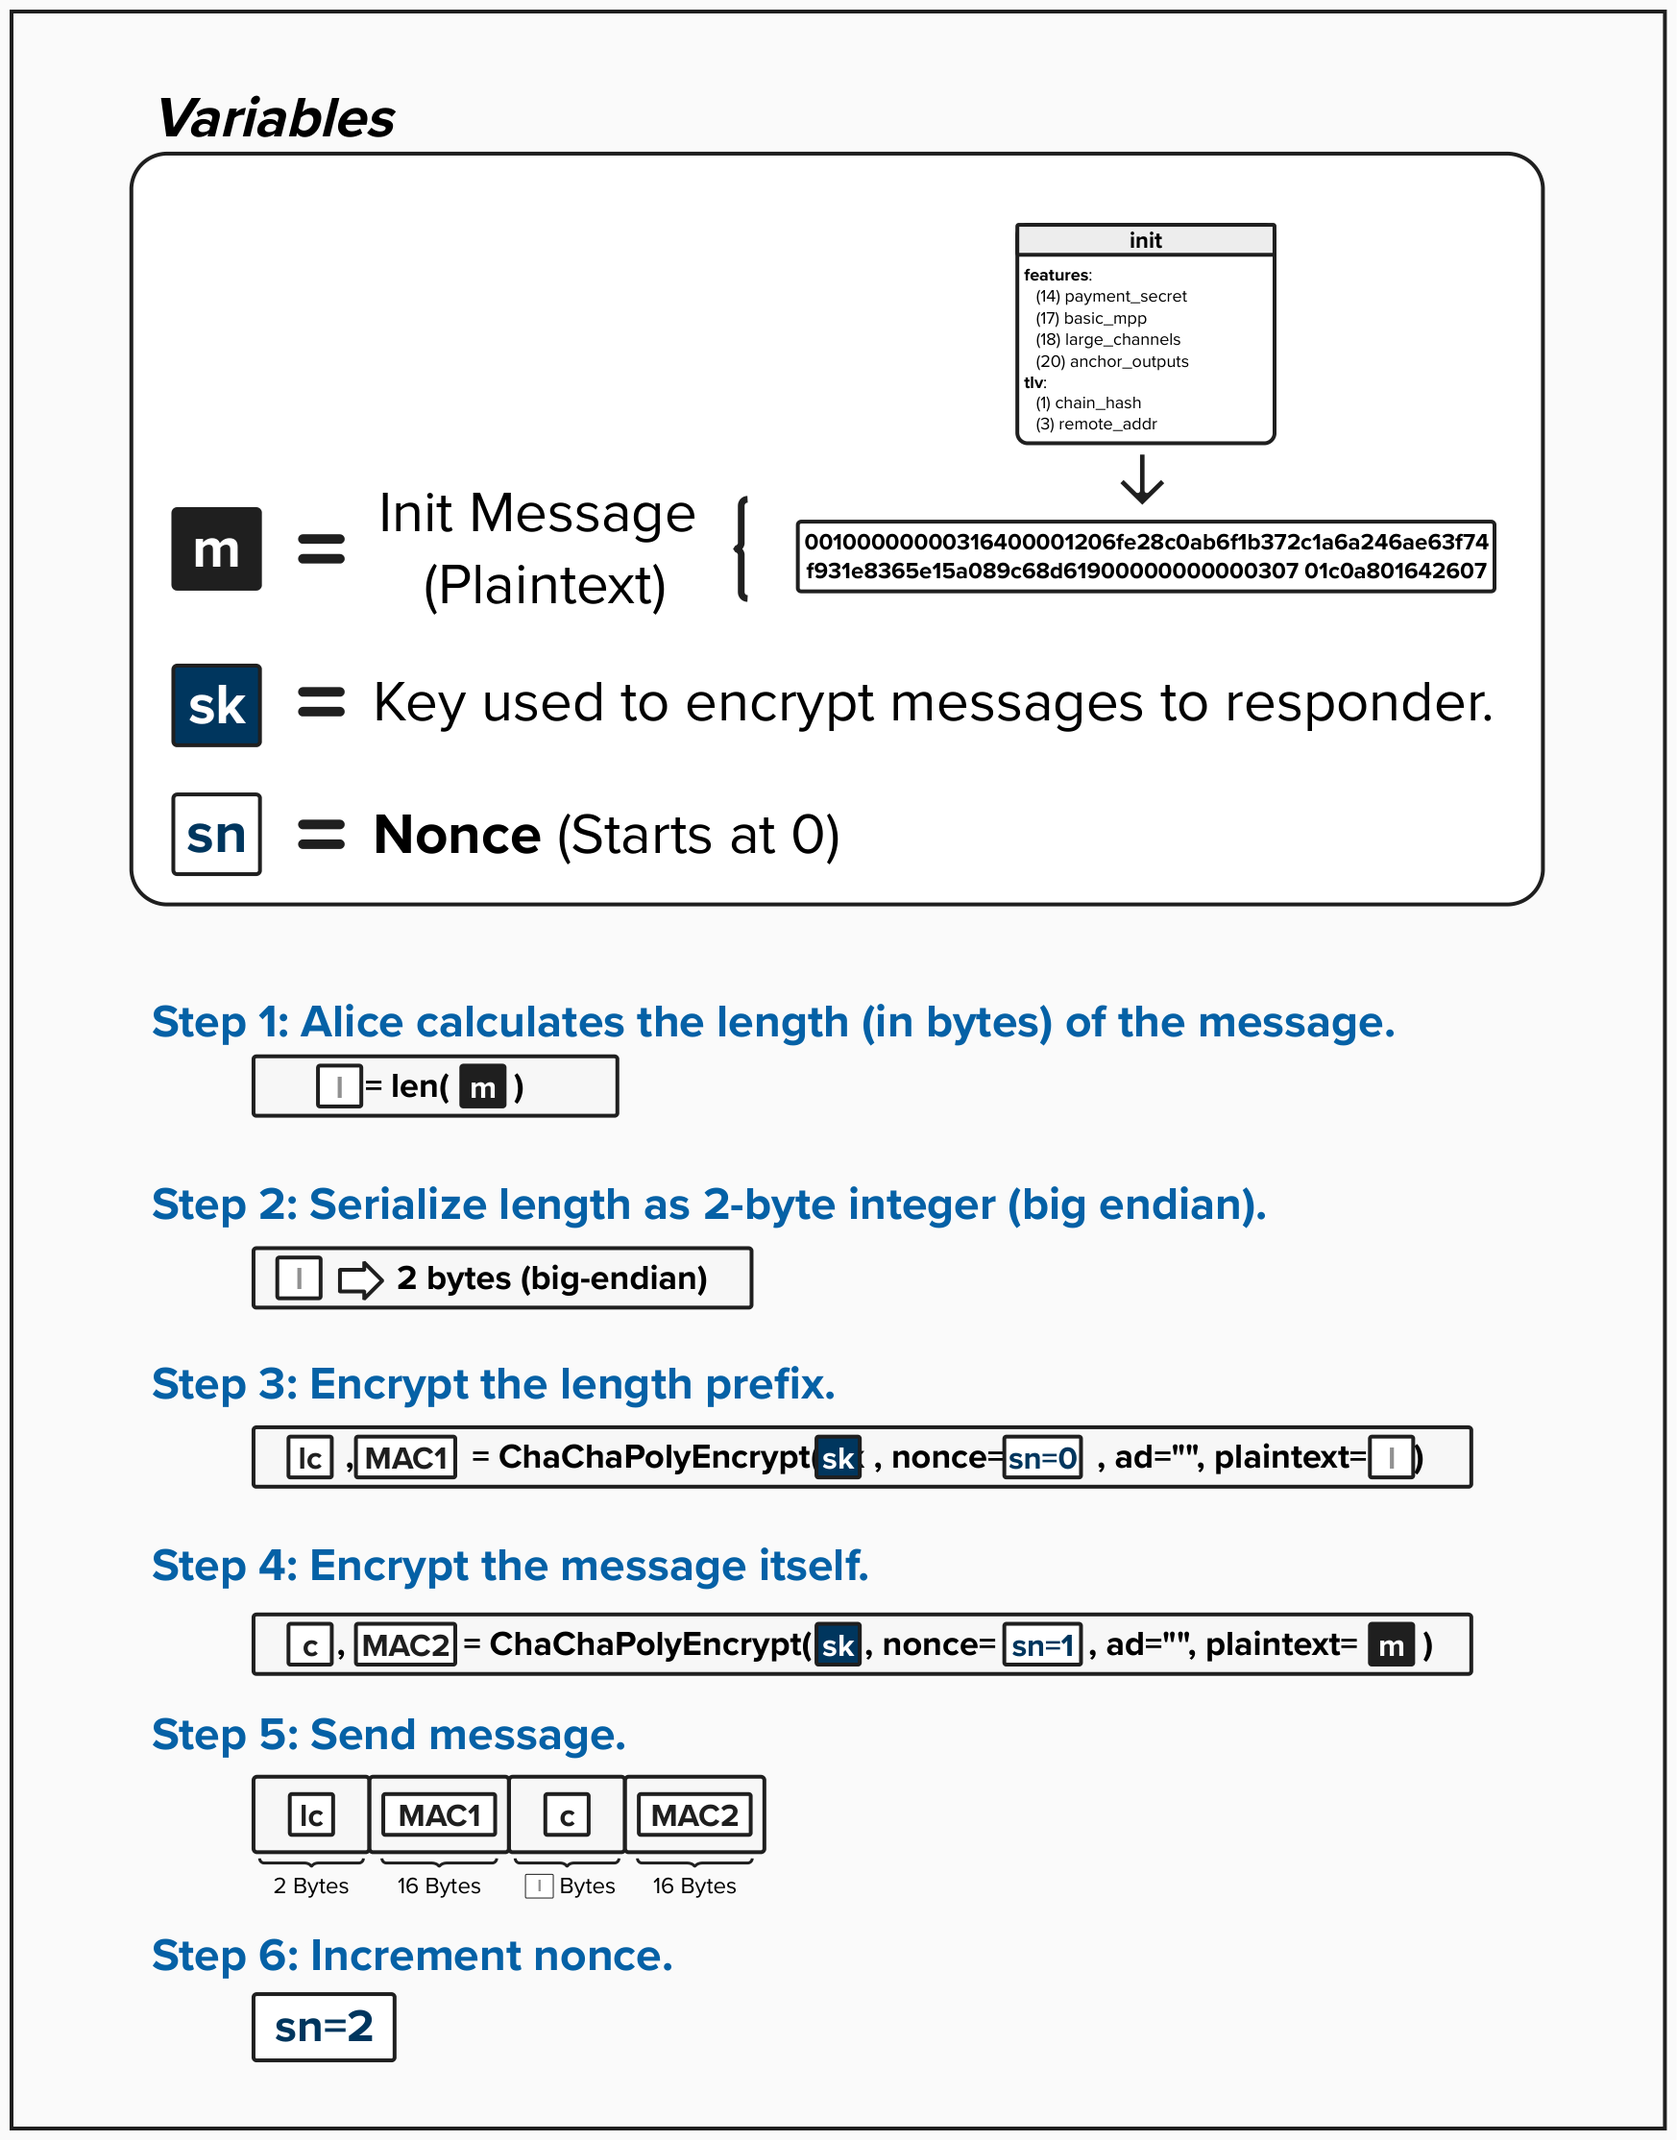
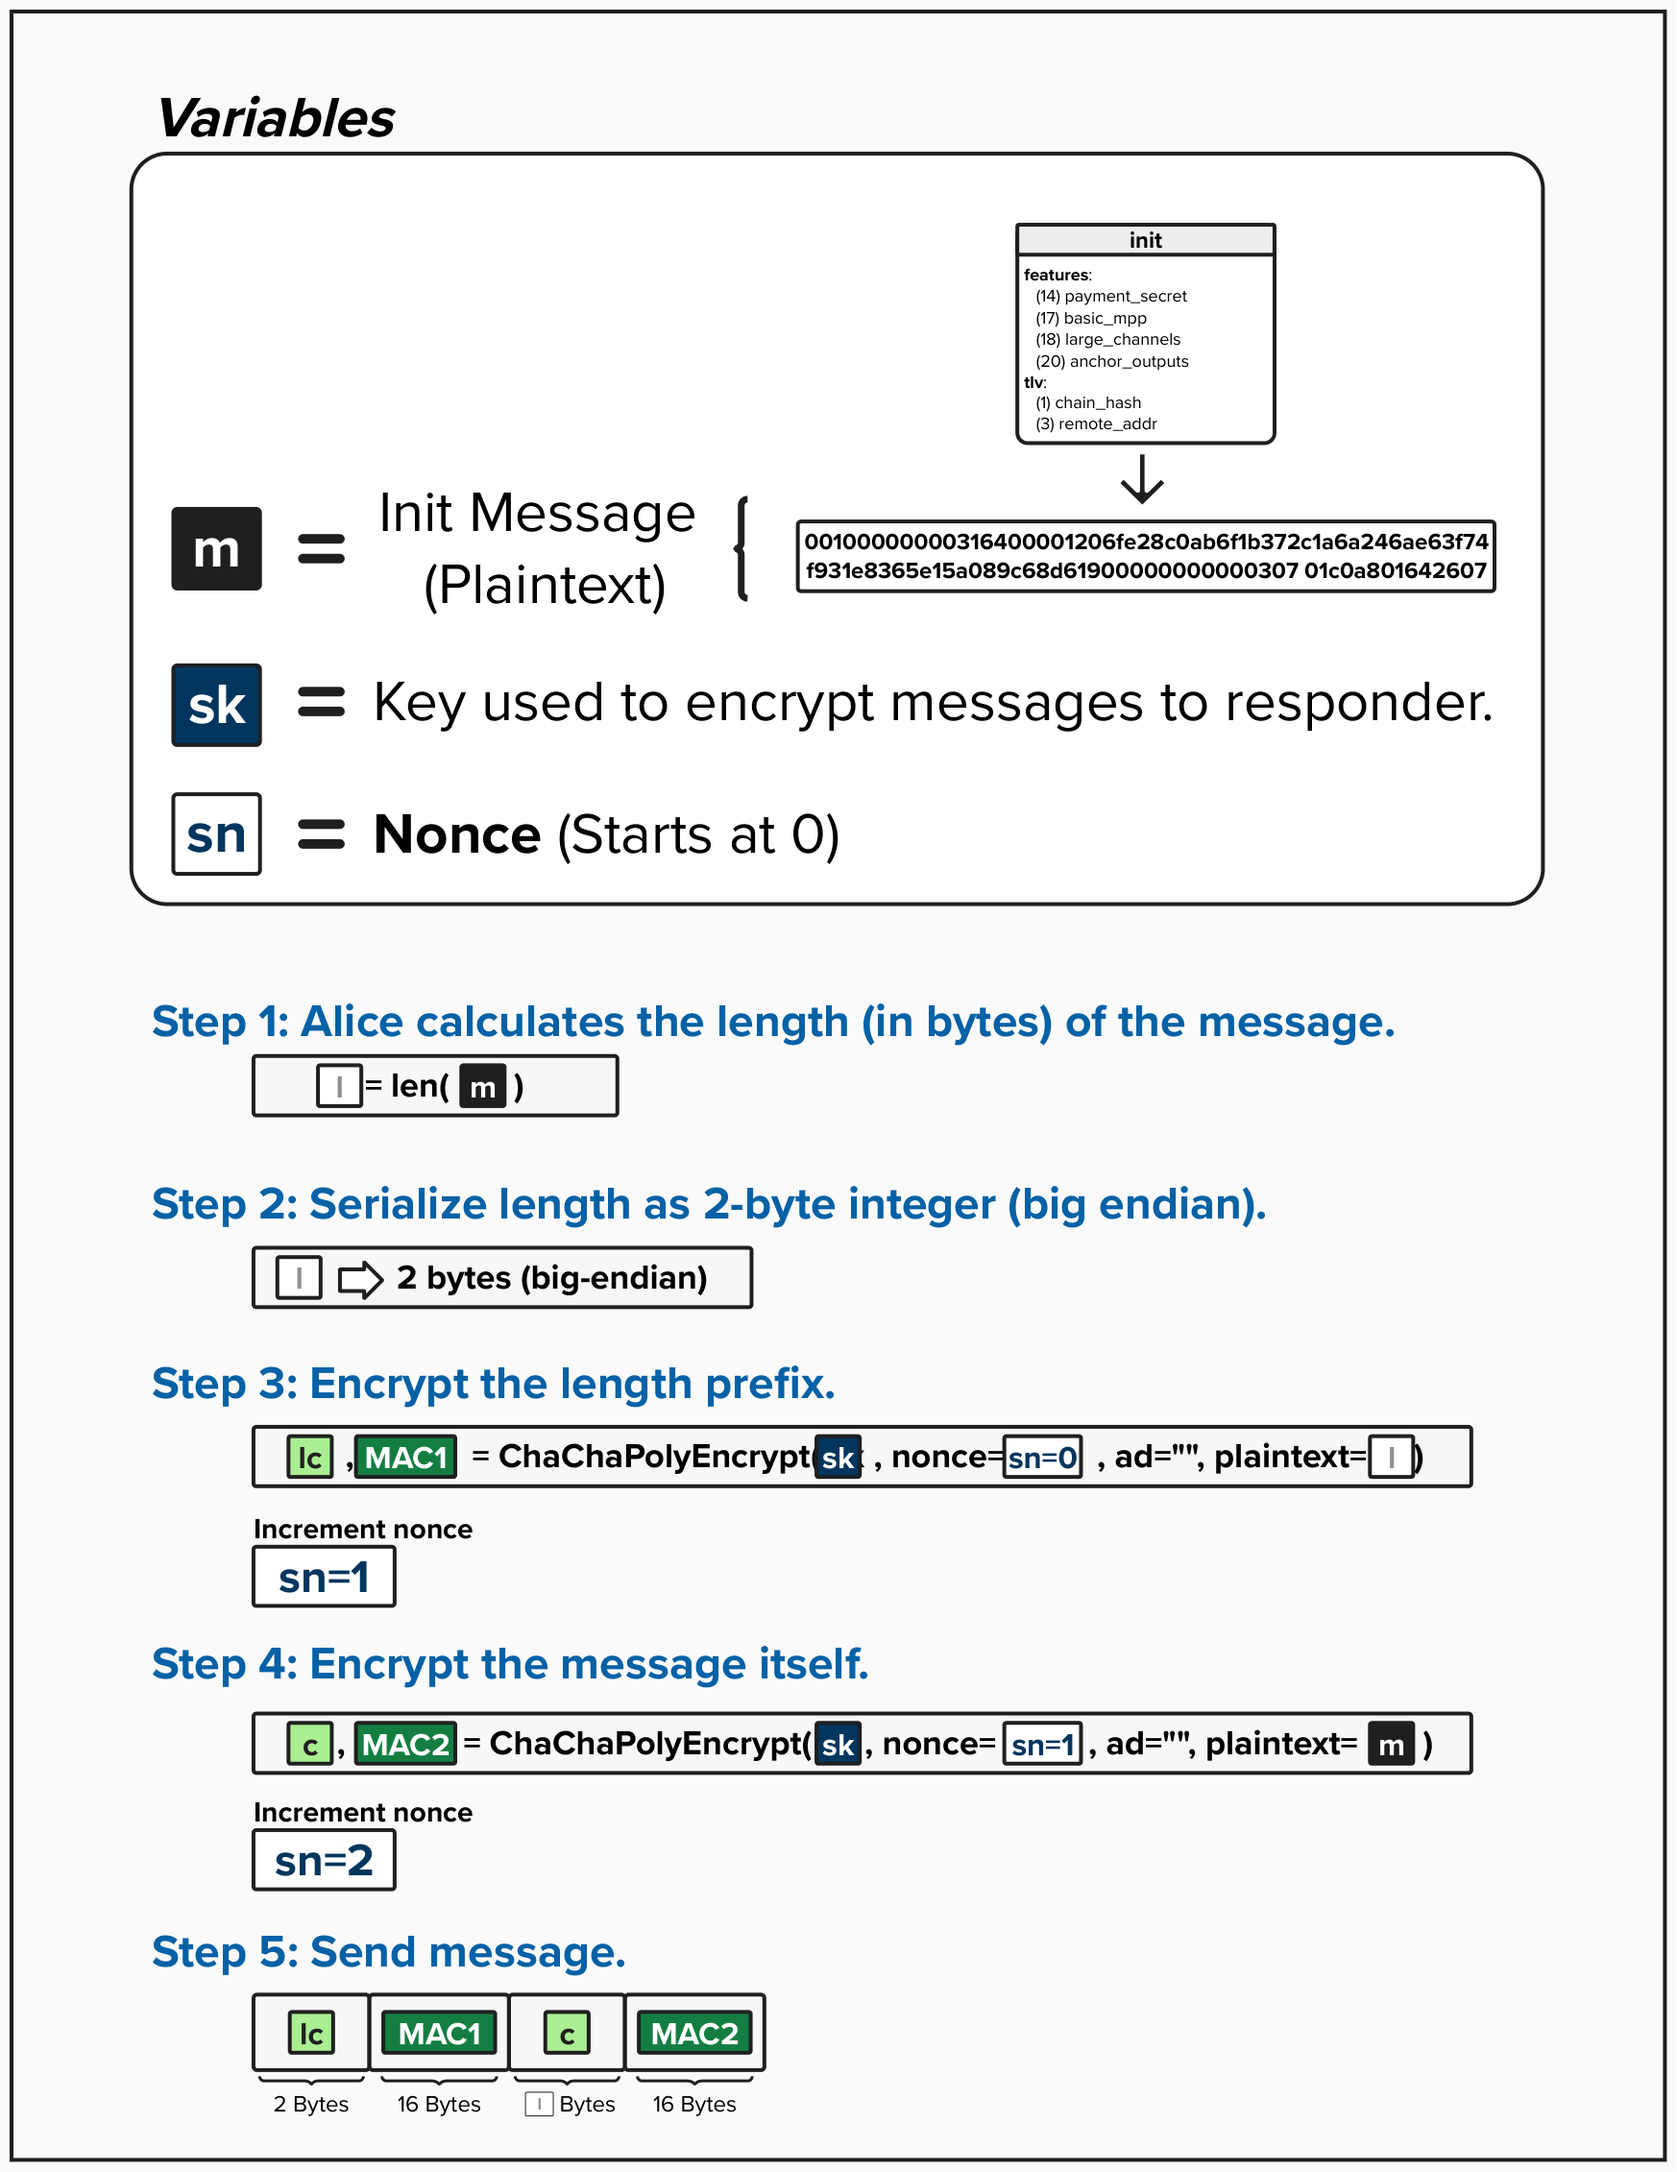
content

diff --git a/client/noise_tutorial/1.10-sending-messages.md b/client/noise_tutorial/1.10-sending-messages.md
@@ -2,7 +2,7 @@
 
 Now that Alice and Bob have completed the handshake phase of the Noise Protocol, they are ready to move to the messaging phase. All Lightning messages are now encrypted and authenticated. According to [BOLT 1](https://github.com/lightning/bolts/blob/master/01-messaging.md#the-init-message), the ***first*** message they will send to each other is the `init` message. 
 
-You can think of this message as *initializing* their connection, informing each partner which features their Lightning node supports and, more importantly, requires.
+You can think of this message as *initializing* their connection, informing each peer which features their Lightning node supports and, more importantly, requires.
 
 Per [BOLT 9](https://github.com/lightning/bolts/blob/master/09-features.md), each feature has **two bits** that can be used to signal support or requirements:
 - Setting the **even** bit means "I REQUIRE this feature"
@@ -18,7 +18,7 @@ If a node receives an unknown **even** bit (a required feature it doesn't unders
 
 ## Encrypting Messages
 
-To ensure privacy and message integrity (if anyone attempts to tamper with message in transit, it will be noticed), Alice will encrypt every Lightning message before transmission to Bob. Let's see how it's done!
+To ensure privacy and message integrity (if anyone attempts to tamper with a message in transit, it will be noticed), Alice will encrypt every Lightning message before transmission to Bob. Let's see how it's done!
 
 <p align="left" style="width: 50%; max-width: 300px;">
   <img src="./tutorial_images/encrypting_messages.png" alt="encrypting_messages" width="100%" height="auto">
@@ -30,16 +30,16 @@ First, Alice will calculate the length of the message (in bytes). This is a crit
 
 ### Step 2: Serialize Length as 2-Byte Integer (Big-Endian)
 
-Next, Alice will encode the length as a 2-byte big-endian integer. By standardizing the length at 2-bytes in the Lightning protocol, the recipient (Bob, in this case) always knows exactly how many bytes to read off the message buffer to determine the length. This approach supports messages up to 65,535 bytes (the maximum value a 2-byte integer can represent).
+Next, Alice will encode the length as a 2-byte big-endian integer. By standardizing the length at 2 bytes in the Lightning protocol, the recipient (Bob, in this case) always knows exactly how many bytes to read off the message buffer to determine the length. This approach supports messages up to 65,535 bytes (the maximum value a 2-byte integer can represent).
 
 <checkpoint id="message-length-limit"></checkpoint>
 
 ### Step 3: Encrypt the Length Prefix
-Once Alice has the 2-byte length of her message, she will encrypt it using the ChaCha20-Poly1305 AEAD (Authenticated Encryption with Associated Data) cipher that we reviewed earlier. Remember, this is *not* an arbitrary choice by Alice! The use of ChaCha20-Poly1305 is defined in the specific Noise variant (`Noise_XK_secp256k1_ChaChaPoly_SHA256`) that Lightning uses.
+Once Alice has the 2-byte length prefix of her message, she will encrypt it using the ChaCha20-Poly1305 AEAD (Authenticated Encryption with Associated Data) cipher that we reviewed earlier. Remember, this is *not* an arbitrary choice by Alice! The use of ChaCha20-Poly1305 is defined in the specific Noise variant (`Noise_XK_secp256k1_ChaChaPoly_SHA256`) that Lightning uses.
 
 To encrypt the length, Alice will input the following:
-- **sk**: Alice's **Sending Key** which was derived during the Noise handshake.
-- **nonce**: Alice's **Sending Nonce**, which is set to 0 for the first use.
+- **sk**: Alice's **Sending Key**, which was derived during the Noise handshake.
+- **nonce**: Alice's **Sending Nonce**, which starts at 0 after the handshake.
 - **ad**: Associated data, which is empty in Lightning's message encryption.
 - **plaintext**: The 2-byte serialized length `l`.
 
@@ -58,10 +58,12 @@ Well, if the length was not encrypted, then any eavesdropper would be able to se
 Next, Alice will encrypt the actual message body using ChaCha20-Poly1305 again. This will produce the encrypted message ciphertext `c`, which is the same length as the original message. It will also produce another 16-byte MAC.
 
 To encrypt the message, Alice will input the following:
-- **sk**: Alice's **Sending Key** which was derived during the Noise handshake.
-- **nonce**: Alice's **Sending Nonce**. Since she already used it once, she will increment the nonce by 1 to ensure that the cipher does not leak any information about the keystream.
+- **sk**: Alice's **Sending Key**, which was derived during the Noise handshake.
+- **nonce**: Alice's **Sending Nonce**. Since the nonce was incremented after encrypting the length in Step 3, Alice now uses the updated nonce value.
 - **ad**: Associated data, which is empty.
 - **plaintext**: The complete `init` message `m`.
+
+After each encryption, Alice increments her **Sending Nonce**, ensuring no nonce is ever reused with the same key.
 
 ### Step 5: Send Message
 
@@ -74,9 +76,5 @@ lc || MAC1 || c || MAC2
 This consists of:
 - **2 bytes**: Encrypted length ciphertext.
 - **16 bytes**: MAC for the length.
-- **m bytes**: Encrypted message ciphertext (where m = original message length).
+- **n bytes**: Encrypted message ciphertext (where n = original message length).
 - **16 bytes**: MAC for the message.
-
-### Step 6: Increment Nonce
-
-Just to hammer this point home, Alice will then increment her send nonce counter again, preparing her for the next time she uses the **Sending Key**, `sk`. This ensures that each message uses a unique nonce value, which is a critical security requirement for ChaCha20-Poly1305.
